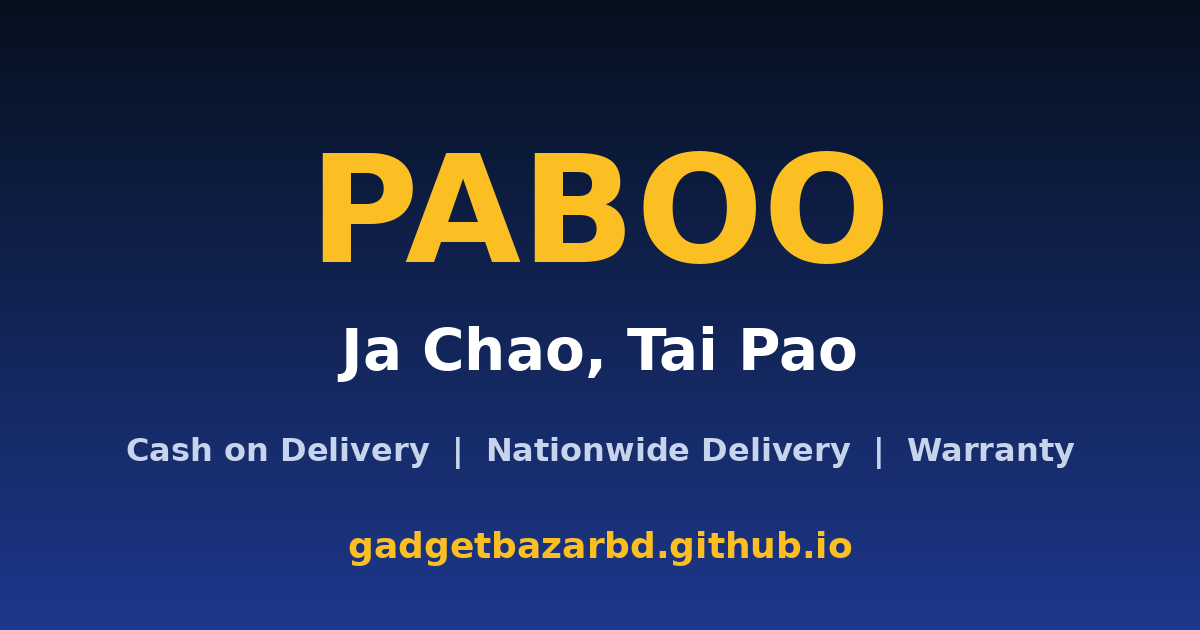
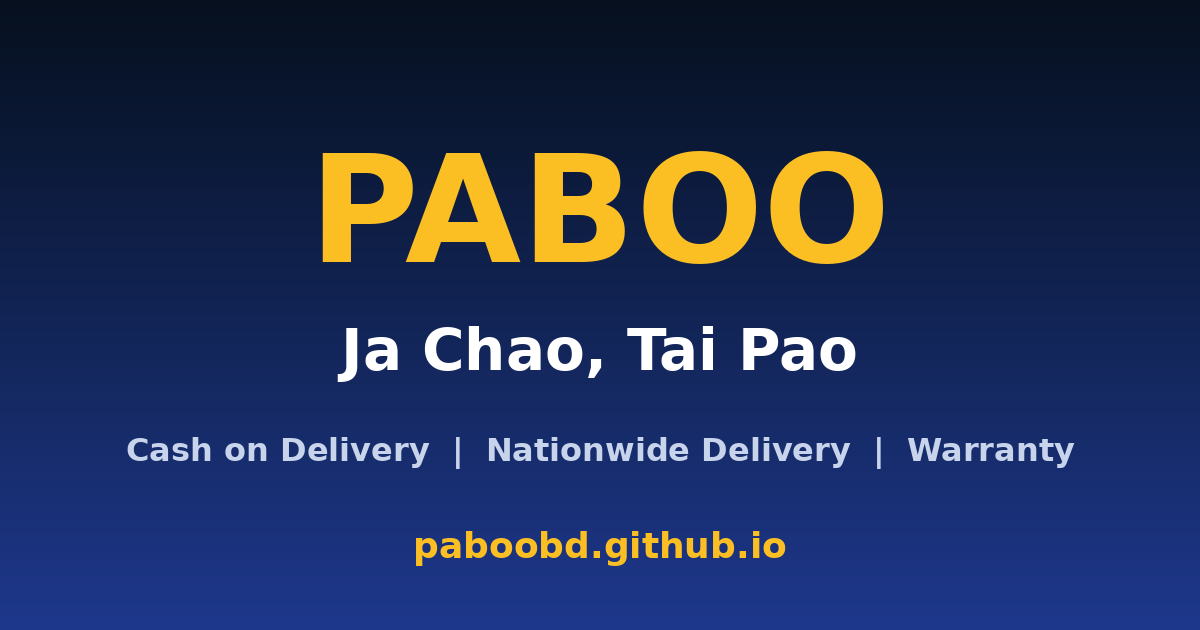
Add files via upload

Changed region(s): [[0.2775, 0.8444, 0.7092, 0.9048]]

diff --git a/index.html b/index.html
@@ -16,8 +16,8 @@
   <meta property="og:site_name" content="Paboo">
   <meta property="og:title" content="Paboo | Ja Chao, Tai Pao — যা চাও, তাই পাও">
   <meta property="og:description" content="Smart gadgets, audio, wearables and accessories with Cash on Delivery across Bangladesh.">
-  <meta property="og:url" content="https://gadgetbazarbd.github.io/">
-  <meta property="og:image" content="https://gadgetbazarbd.github.io/og-image.png">
+  <meta property="og:url" content="https://paboobd.github.io/">
+  <meta property="og:image" content="https://paboobd.github.io/og-image.png">
   <meta property="og:image:width" content="1200">
   <meta property="og:image:height" content="630">
   <meta name="twitter:card" content="summary_large_image">
@@ -33,7 +33,7 @@
     rel="stylesheet"
   >
 
-  <link rel="stylesheet" href="style.css?v=gbbd-fixes-20261026b">
+  <link rel="stylesheet" href="style.css?v=gbbd-fixes-20261026c">
 
   <script src="https://cdn.jsdelivr.net/npm/@supabase/supabase-js@2"></script>
 
@@ -700,8 +700,8 @@
 </footer>
 
 
-<script src="script.js?v=gbbd-fixes-20261026b"></script>
-<script src="i18n.js?v=gbbd-fixes-20261026b"></script>
+<script src="script.js?v=gbbd-fixes-20261026c"></script>
+<script src="i18n.js?v=gbbd-fixes-20261026c"></script>
 
 </body>
 </html>

diff --git a/admin.js b/admin.js
@@ -1318,7 +1318,7 @@ function showCatSuggest(){
 }
 function pickCat(n){const i=$('productCategory');if(i)i.value=n;hideCatSuggest()}
 
-const SITE_URL='https://gadgetbazarbd.github.io/';
+const SITE_URL='https://paboobd.github.io/';
 const POST_WA='8801320992683';
 let postIdx=-1,postSrc='fbgroup';
 const POST_SRCS={fbgroup:'Facebook Group',fbpage:'Facebook Page/Boost',story:'Story',tiktok:'TikTok'};
@@ -1384,7 +1384,7 @@ async function downloadPostImage(kind){
   x.fillStyle='#22c55e';x.font='bold 88px sans-serif';x.fillText('৳'+fin.toLocaleString('en-BD'),W/2,y+60);y+=100;
   if(d>0){x.fillStyle='#cbd5e1';x.font='36px sans-serif';x.fillText('৳'+Number(p.price).toLocaleString('en-BD')+'  •  '+d+'% OFF',W/2,y+10);y+=60}
   x.fillStyle='#fbbf24';x.font='bold 38px sans-serif';
-  x.fillText('Order: gadgetbazarbd.github.io',W/2,H-(kind==='story'?150:80));
+  x.fillText('Order: paboobd.github.io',W/2,H-(kind==='story'?150:80));
   x.fillStyle='#fff';x.font='34px sans-serif';x.fillText('WhatsApp: +'+POST_WA,W/2,H-(kind==='story'?90:30));
   let blob;
   try{blob=await new Promise((r,j)=>c.toBlob(b=>b?r(b):j(new Error('x')),'image/jpeg',.92))}
